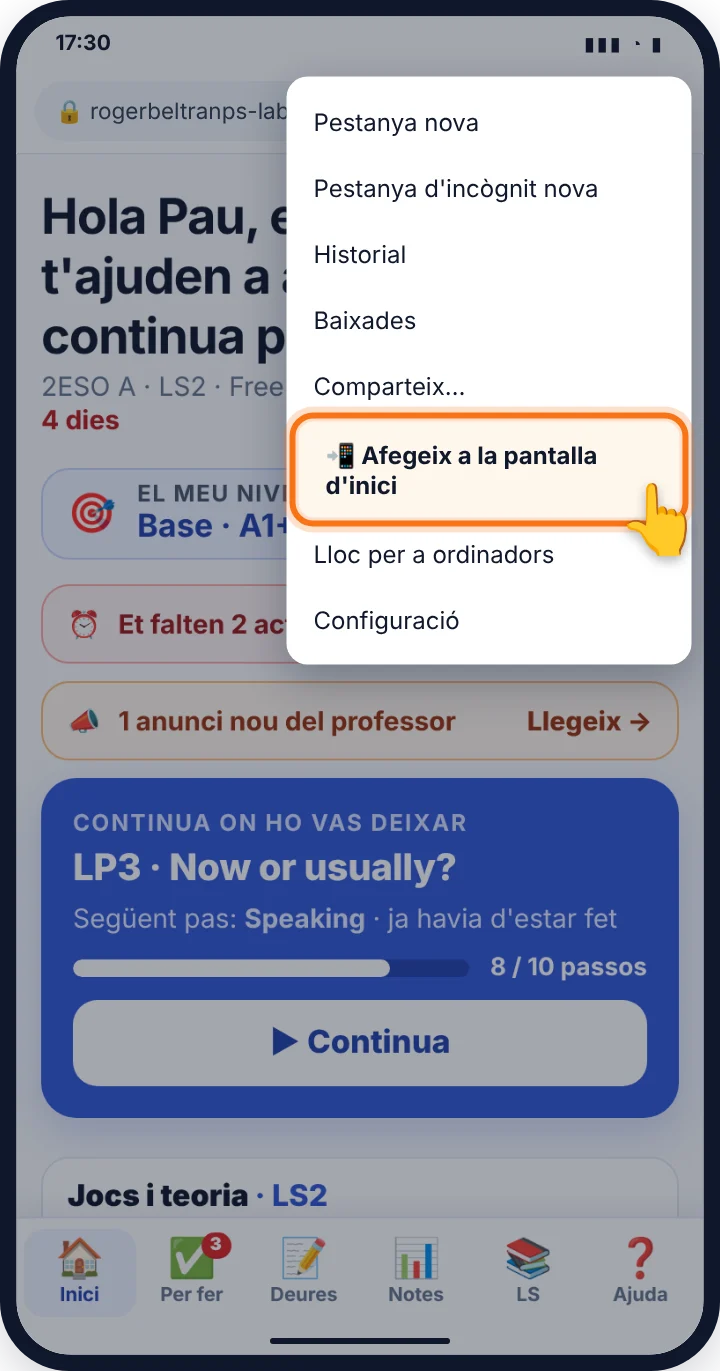
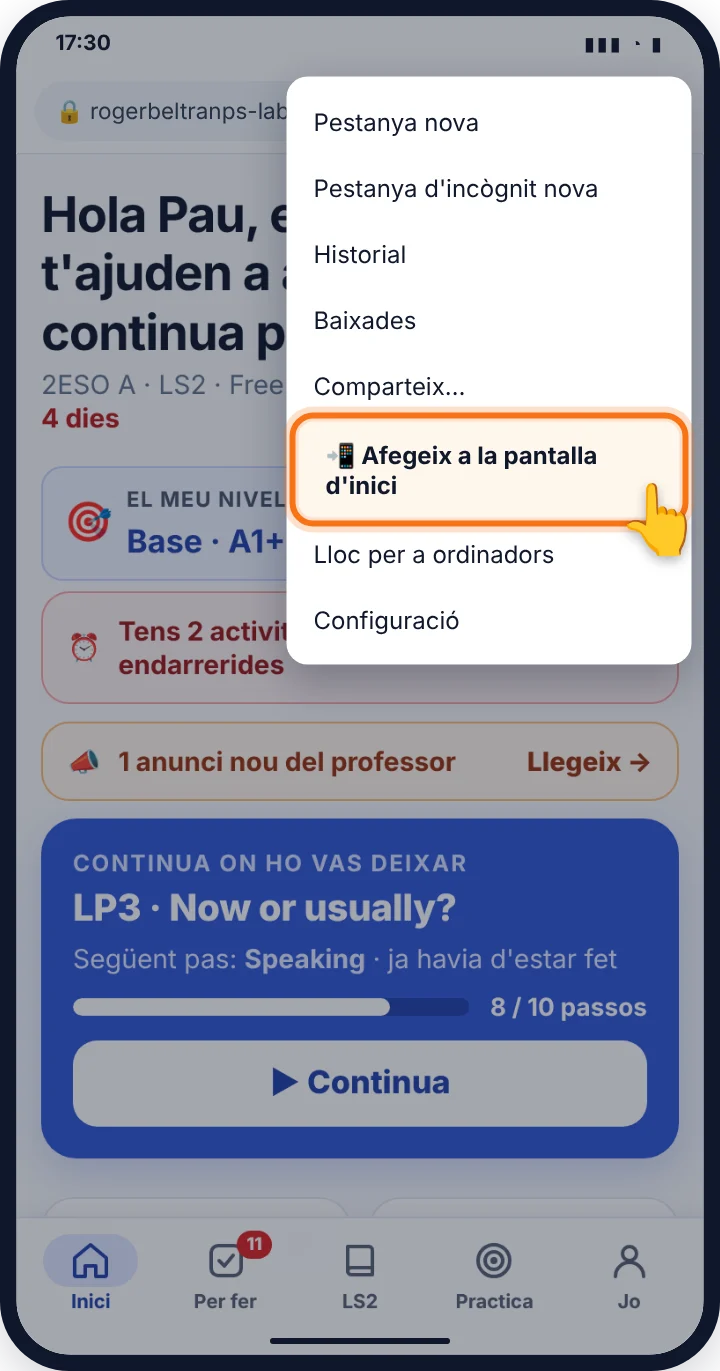
Phone guide: retake the pictures with the new phone layout (#432)
* Phone: one bottom tab bar on every student page, and a Me place

Roger (8 Nov 2026) wants the phone view remodelled like an app while
Chrome on a computer or Chromebook stays exactly as it is. Step 1 of
option A of the mockup:

- shared/css/el-phone.css (imported by el-app.css): every rule that
  changes a page is inside @media (max-width:640px).
- elPhoneTabs() in el-catalog.js: Home, To do, LSn, Practise, Me with
  SVG icons, on the board, the LS pages, learning paths, course pages,
  Practise and Games. The To do badge is kept in localStorage by the
  board, so other pages show it with no Firestore read.
- today.html: the #me place (name, level with Ask for a level change,
  marks, formative, Games and theory, LSs, announcements, books,
  grammar, games, help, phone, Problem, Idea); a To do / Homework
  switch on top of both places (phone only).
- Practise and Games: a switch between the two halves of the tab.
- Inputs 16 px on a phone, so iPhone Safari no longer zooms in.

Desktop checked pixel-identical at 1366x768, 1440x900 and 800 px on
24 demo-mode pages (board places, LS homes, LPs, course, Games,
Practise, teacher places).

Claude-Session: https://claude.ai/code/session_011rtGVpETCYPze1kgNR9nNF

* Phone: My level takes the whole row, Ask for a level change as a button beside it

Roger (8 Nov 2026): "there's an empty space next to level".

Claude-Session: https://claude.ai/code/session_011rtGVpETCYPze1kgNR9nNF
[…]

diff --git a/today.html b/today.html
@@ -600,7 +600,7 @@ function phoneBanner(always){
   if(APP()||(!always&&seen))return "";
   return `<div class="phonebn"><a href="#phone"><span class="pbi" aria-hidden="true">📱</span><span><b>${t("Estudia també amb el mòbil","Study on your phone too")}</b><small>${t("Posa English Lab a la pantalla d'inici del mòbil i obre'l com una aplicació.","Put English Lab on your phone's home screen and open it like an app.")}</small></span><span class="pbg">${t("Com","How")} →</span></a>${always?"":`<button class="pbx" data-phone-x title="${t("Amaga","Hide")}" aria-label="${t("Amaga","Hide")}">✕</button>`}</div>`}
 function phoneBox(){
-  const L=lang(),im=(n,alt)=>`<img src="shared/img/phone/${n}.webp?v=2" alt="${esc(alt)}" loading="lazy">`,ios=/iPhone|iPad|iPod/.test(navigator.userAgent);
+  const L=lang(),im=(n,alt)=>`<img src="shared/img/phone/${n}.webp?v=3" alt="${esc(alt)}" loading="lazy">`,ios=/iPhone|iPad|iPod/.test(navigator.userAgent);
   const fig=(n,c)=>`<figure>${im(n,c)}<figcaption>${c}</figcaption></figure>`;
   const done=t("Fet! Toca la icona d'English Lab per estudiar.","Done! Tap the English Lab icon to study.");
   const and=`<details class="psteps" ${ios?"":"open"}><summary>🤖 Android · Chrome</summary><div class="pfig">`
